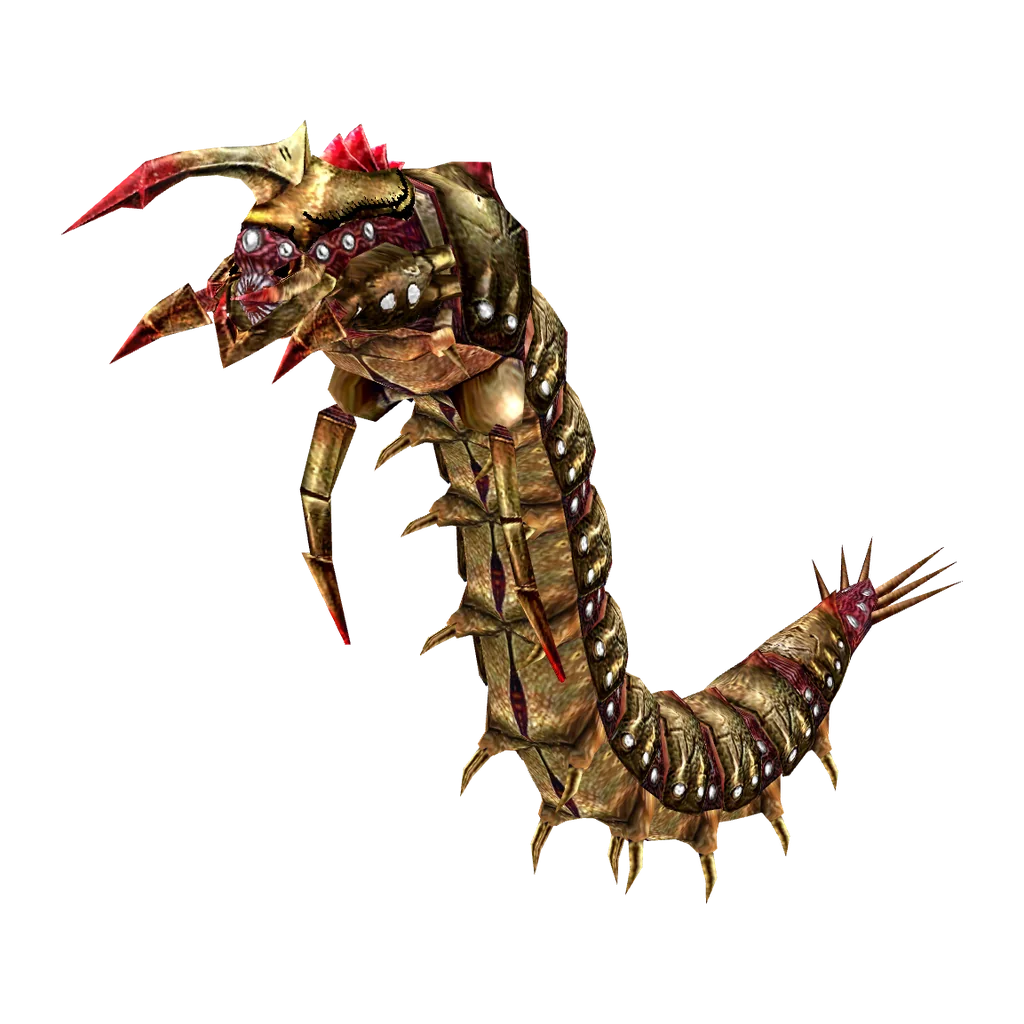
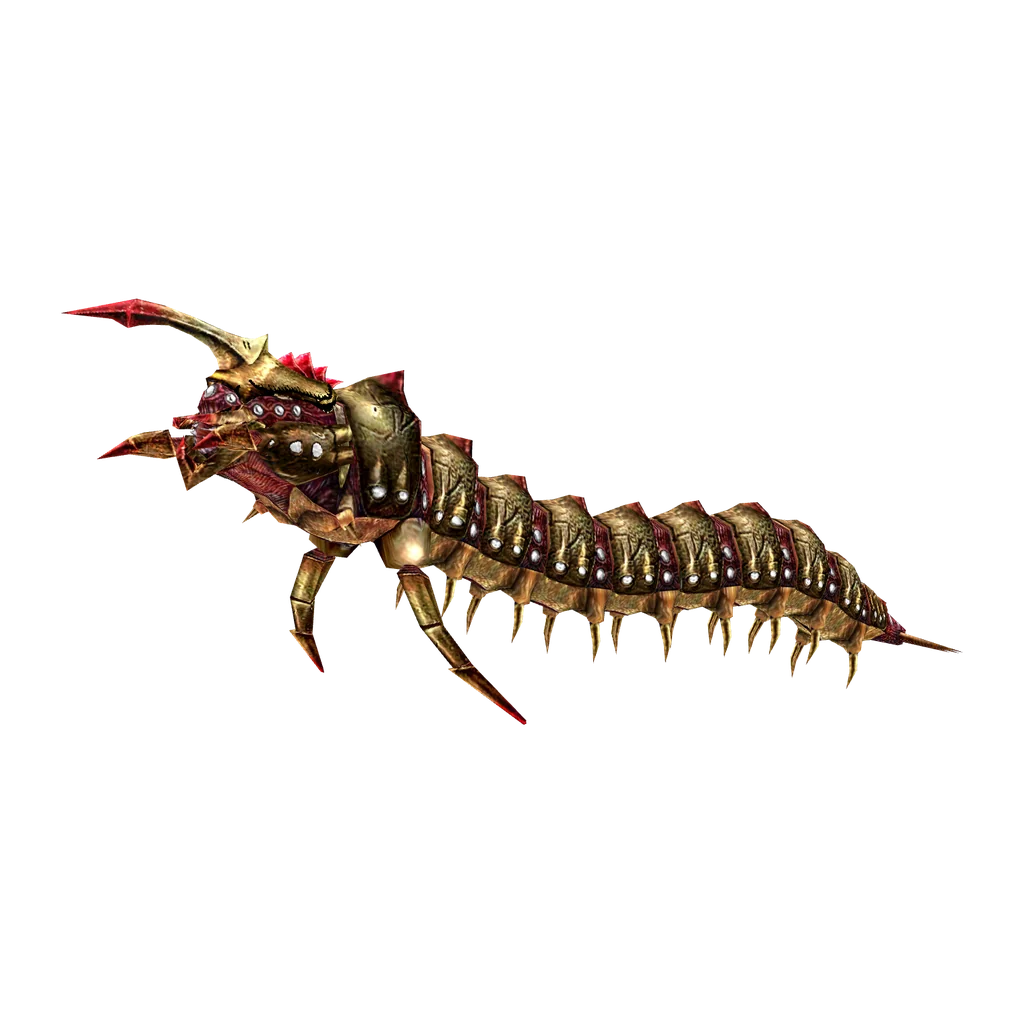
Render De Rol Le mid-swim from the reference angle

Changed region(s): [[0.0625, 0.125, 0.9375, 0.875], [0.8125, 0.75, 0.8438, 0.7812]]

diff --git a/docs/MONSTER_CATALOG.md b/docs/MONSTER_CATALOG.md
@@ -334,7 +334,7 @@ did not re-evaluate tiers or change the in-game rotation.
 - 模型来源有两种。`npc` 取本地 phantasmal-world（提交 `a8890d22`）已提取的 `assets/npcs`，按其 `EntityAssetLoader.entityTypeToPath` 解析，Ultimate 皮肤按 `UltimateSkins.kt`。`archive` + `model`（+ `motion`）直接读取 Ephinea 客户端数据：`data.gsl` 中的 BML 或散放的 `.bml`（`scripts/pso_archives.py` 负责 PRS、GSL 与 BML 解析）；没有自带贴图的条目使用同一档案的第一个贴图包。首领、部位与 Ultimate 档案（`_a` / `_ap`）以及 EP4 首领的分阶段待机动作均由此取得。
 - phantasmal-world 的部分资源命名有误，已改用客户端档案：其 Hidoom / Migium 实为出场地面物件（正确模型是 Pan Arms 档案 `bm7_s_paa_body` 的 `pal` / `par`），Canane 为另一模型（正确的是 `bm_ene_me1_mb`），挂在 MerissaA 名下的动作属于 Slime（`bm4_ps_ma_body`）。每次改动都应把渲染图与 Wiki / 高清图逐项对照。
 - 渲染：`npm run generate:monster-renders -- --harness-assets <phantasmal-world>/web/src/jsMain/resources/assets/npcs`（`scripts/render_monster_models.py`）先把档案条目提取到该目录的 `raw/`，再调用 `scripts/render_monster_models.mjs` 在无界面浏览器中驱动 phantasmal-world 的导出入口 `?npcBatch=1`（`window.__renderNpc`），用它自己的蒙皮与 NJM 动画转换摆姿势，分别在黑底与白底上渲染 2048 px；两图之差还原透明度，叠加发光材质保持半透明。结果裁切到模型、居中留边，输出 1024 px 与 160 px WebP，`manifest.json` 记录 SHA-256。该导出入口只存在于本机 phantasmal-world 工作副本，不属于其仓库；重新渲染前需在本机构建并以 `--harness` 指向它。
-- 姿势：默认用模型自己的待机动作（wait / stand / standby 等，Poison Lily 用张开的 `waito`）；EP4 首领一、二阶段分别用 `1st_standby` / `2nd_standby`。Spinner 用 `standby`：其动作类型 `0x2005` 的四元数旋转位于缩放之前，phantasmal-world 原解析顺序（缩放在前）会读错，本机导出入口的构建修正了这一顺序。没有动作的模型用绑定姿势，Hildeblue 借用 Hildebear、Gobooma / Gigobooma 借用 Booma 的同骨架动作。Hidoom 以前的地面物件、Merissa A / AA、Pouilly Slime 的环境反射外壳在导出中会画成不透明色块，按材质序号隐藏。
+- 姿势：默认用模型自己的待机动作（wait / stand / standby 等，Poison Lily 用张开的 `waito`）；EP4 首领一、二阶段分别用 `1st_standby` / `2nd_standby`。De Rol Le（含 Ultimate）用前进动作 `forward` 第 0 帧的伸展身体，模型绕 X 轴抬头 12°，从头部斜前方 45° 取景，与维护者提供的参考图一致。Spinner 用 `standby`：其动作类型 `0x2005` 的四元数旋转位于缩放之前，phantasmal-world 原解析顺序（缩放在前）会读错，本机导出入口的构建修正了这一顺序。没有动作的模型用绑定姿势，Hildeblue 借用 Hildebear、Gobooma / Gigobooma 借用 Booma 的同骨架动作。Hidoom 以前的地面物件、Merissa A / AA、Pouilly Slime 的环境反射外壳在导出中会画成不透明色块，按材质序号隐藏。
 - 档案贴图：没有自带贴图包的模型按编号引用同一档案的贴图包（默认第一个，可用 `texture` 指定、`textureOrder` 重排）。提取时把 XVRT 块首尾相接重新打包，因为部分档案的块带对齐填充，顺序读取 IFF 的解析器会只读到第一张贴图；同名的模型与动作（如 `fs_obj_hiraishin_a.nj` / `.njm`）分开索引。解码后的 DXT 贴图使用线性过滤（与游戏一致，避免放大后的像素块）。
 - 组合与特殊材质：`parts` 在同一场景中叠加多个模型（Olga Flow (Form 1) 的本体 `bssgc_pf01_body` 与腿 `bossgc_pf01_leg`，均用空中待机 `skywait`；该姿势按倒挂制作，`rotate` 绕 X 轴翻转 180° 后从 270° 方向取景，剑朝下，与高清图一致；地面待机 `grdwait` 绕 Z 轴翻转 180° 的正面姿势作为 `alternates` 保留，详情页以“地面姿势”按钮切换，列表缩略图只用主渲染）。Bee / Gee 的 `re4_b_bit` 是没有纹理坐标的环境映射模型，`plainMaps` + `planarUv` 按正面投影纹理坐标，显示其漩涡纹理。De Rol Le (Shell) 用头部骨盔 `boss2_b_helm_break`（与 Wiki 截图一致），Ultimate 取 `_a` 档案。
 - 未覆盖（5 个条目，保持高清图库或 Wiki 图片）：Vol Opt (Form 1)（参考图是整面墙）与 (Monitor)（屏幕上 Vol Opt 的脸是战斗中的实时画面，模型贴图只有文字）、De Rol Le (Mine)（候选模型与参考不符）、Nar Lily ×2（红色贴图未找到）。Death Gunner 目前与 Dark Gunner 使用同一贴图，客户端档案中没有找到其独立配色；Epsigard 使用 `re6_b_claw_body` 自带的红白贴图，比游戏截图多出白色区域。
